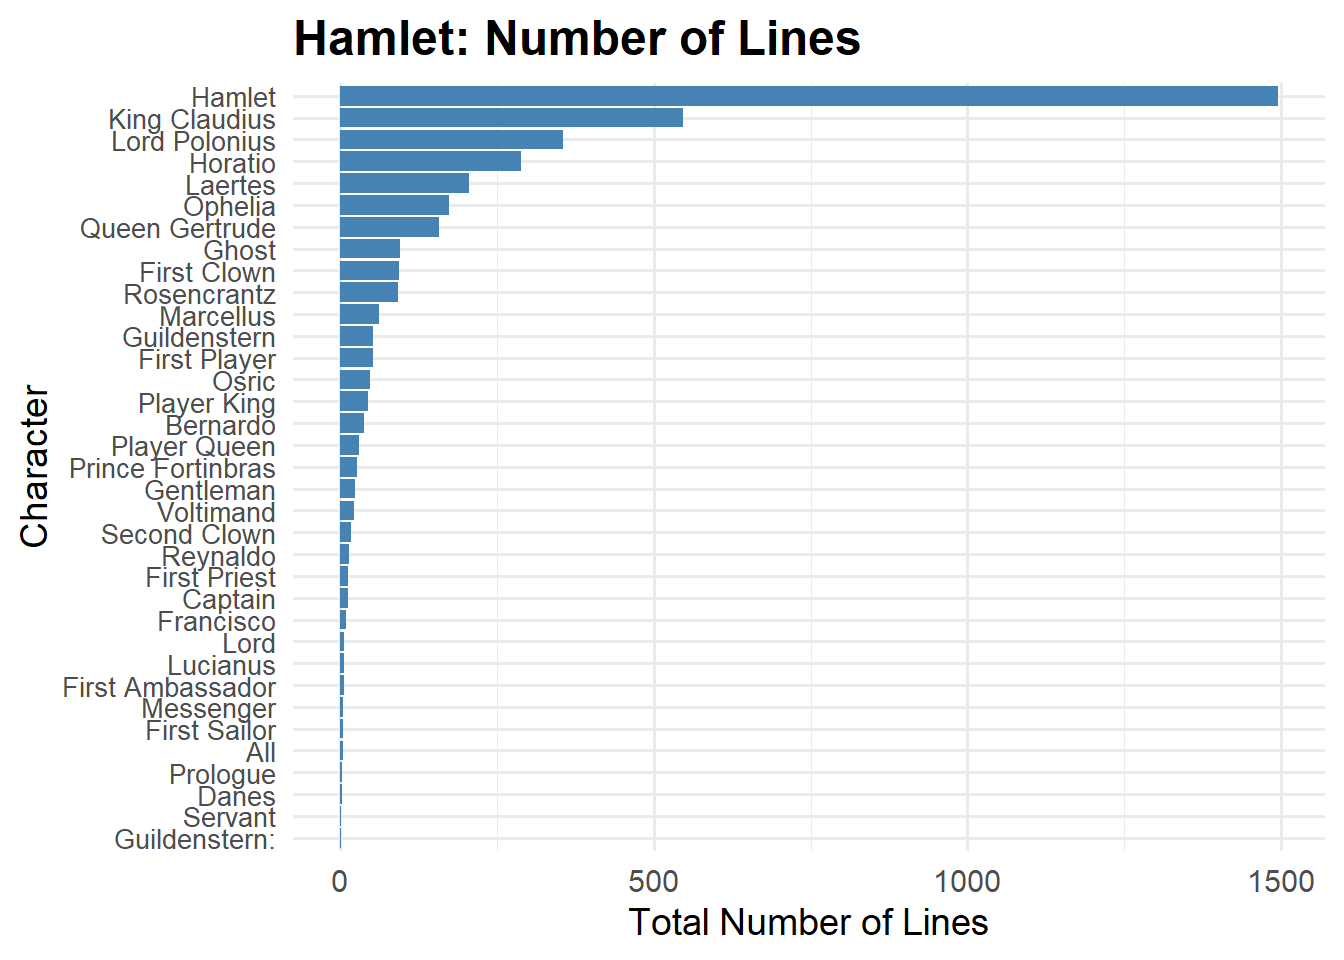
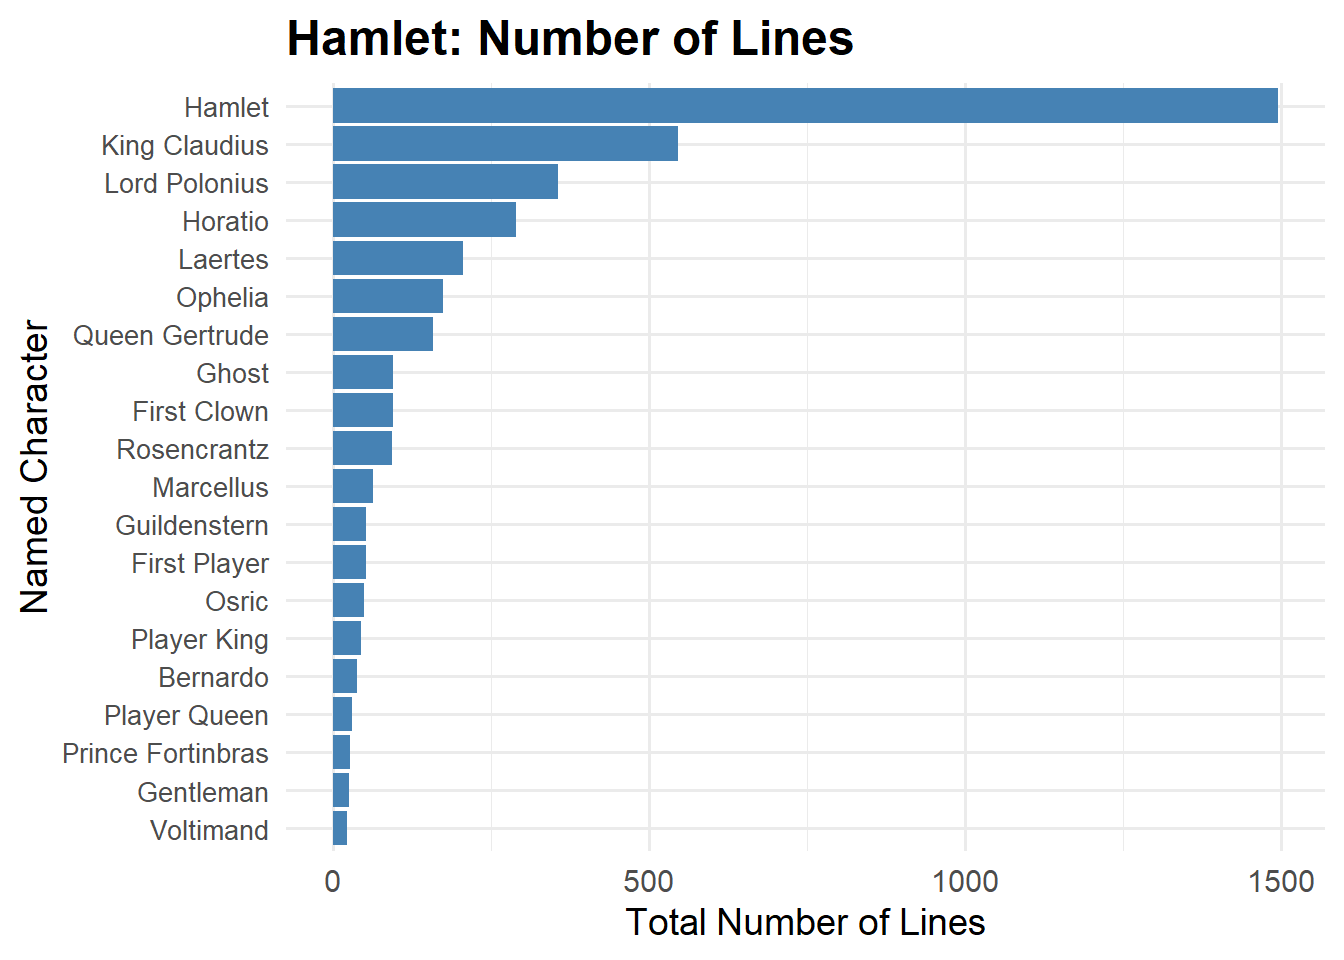
changed histograms to be the top 20 characters of each play by number of lines.

diff --git a/docs/tidyv3.html b/docs/tidyv3.html
@@ -184,17 +184,21 @@ ul.task-list li input[type="checkbox"] {
 </figure>
 </div>
 </div>
+</div>
+<div class="cell">
 <div class="cell-output-display">
 <div>
 <figure class="figure">
-<p><img src="tidyv3_files/figure-html/unnamed-chunk-2-2.png" class="img-fluid figure-img" width="672"></p>
+<p><img src="tidyv3_files/figure-html/unnamed-chunk-3-1.png" class="img-fluid figure-img" width="672"></p>
 </figure>
 </div>
 </div>
+</div>
+<div class="cell">
 <div class="cell-output-display">
 <div>
 <figure class="figure">
-<p><img src="tidyv3_files/figure-html/unnamed-chunk-2-3.png" class="img-fluid figure-img" width="672"></p>
+<p><img src="tidyv3_files/figure-html/unnamed-chunk-4-1.png" class="img-fluid figure-img" width="672"></p>
 </figure>
 </div>
 </div>

diff --git a/docs/index.html b/docs/index.html
@@ -110,6 +110,10 @@ ul.task-list li input[type="checkbox"] {
     <a class="dropdown-item" href="./tidyv2.html">
  <span class="dropdown-text">Tidy Tuesday - D&amp;D Spells</span></a>
   </li>  
+        <li>
+    <a class="dropdown-item" href="./tidyv3.html">
+ <span class="dropdown-text">Tidy Tuesday - Shakespeare</span></a>
+  </li>  
     </ul>
   </li>
 </ul>
